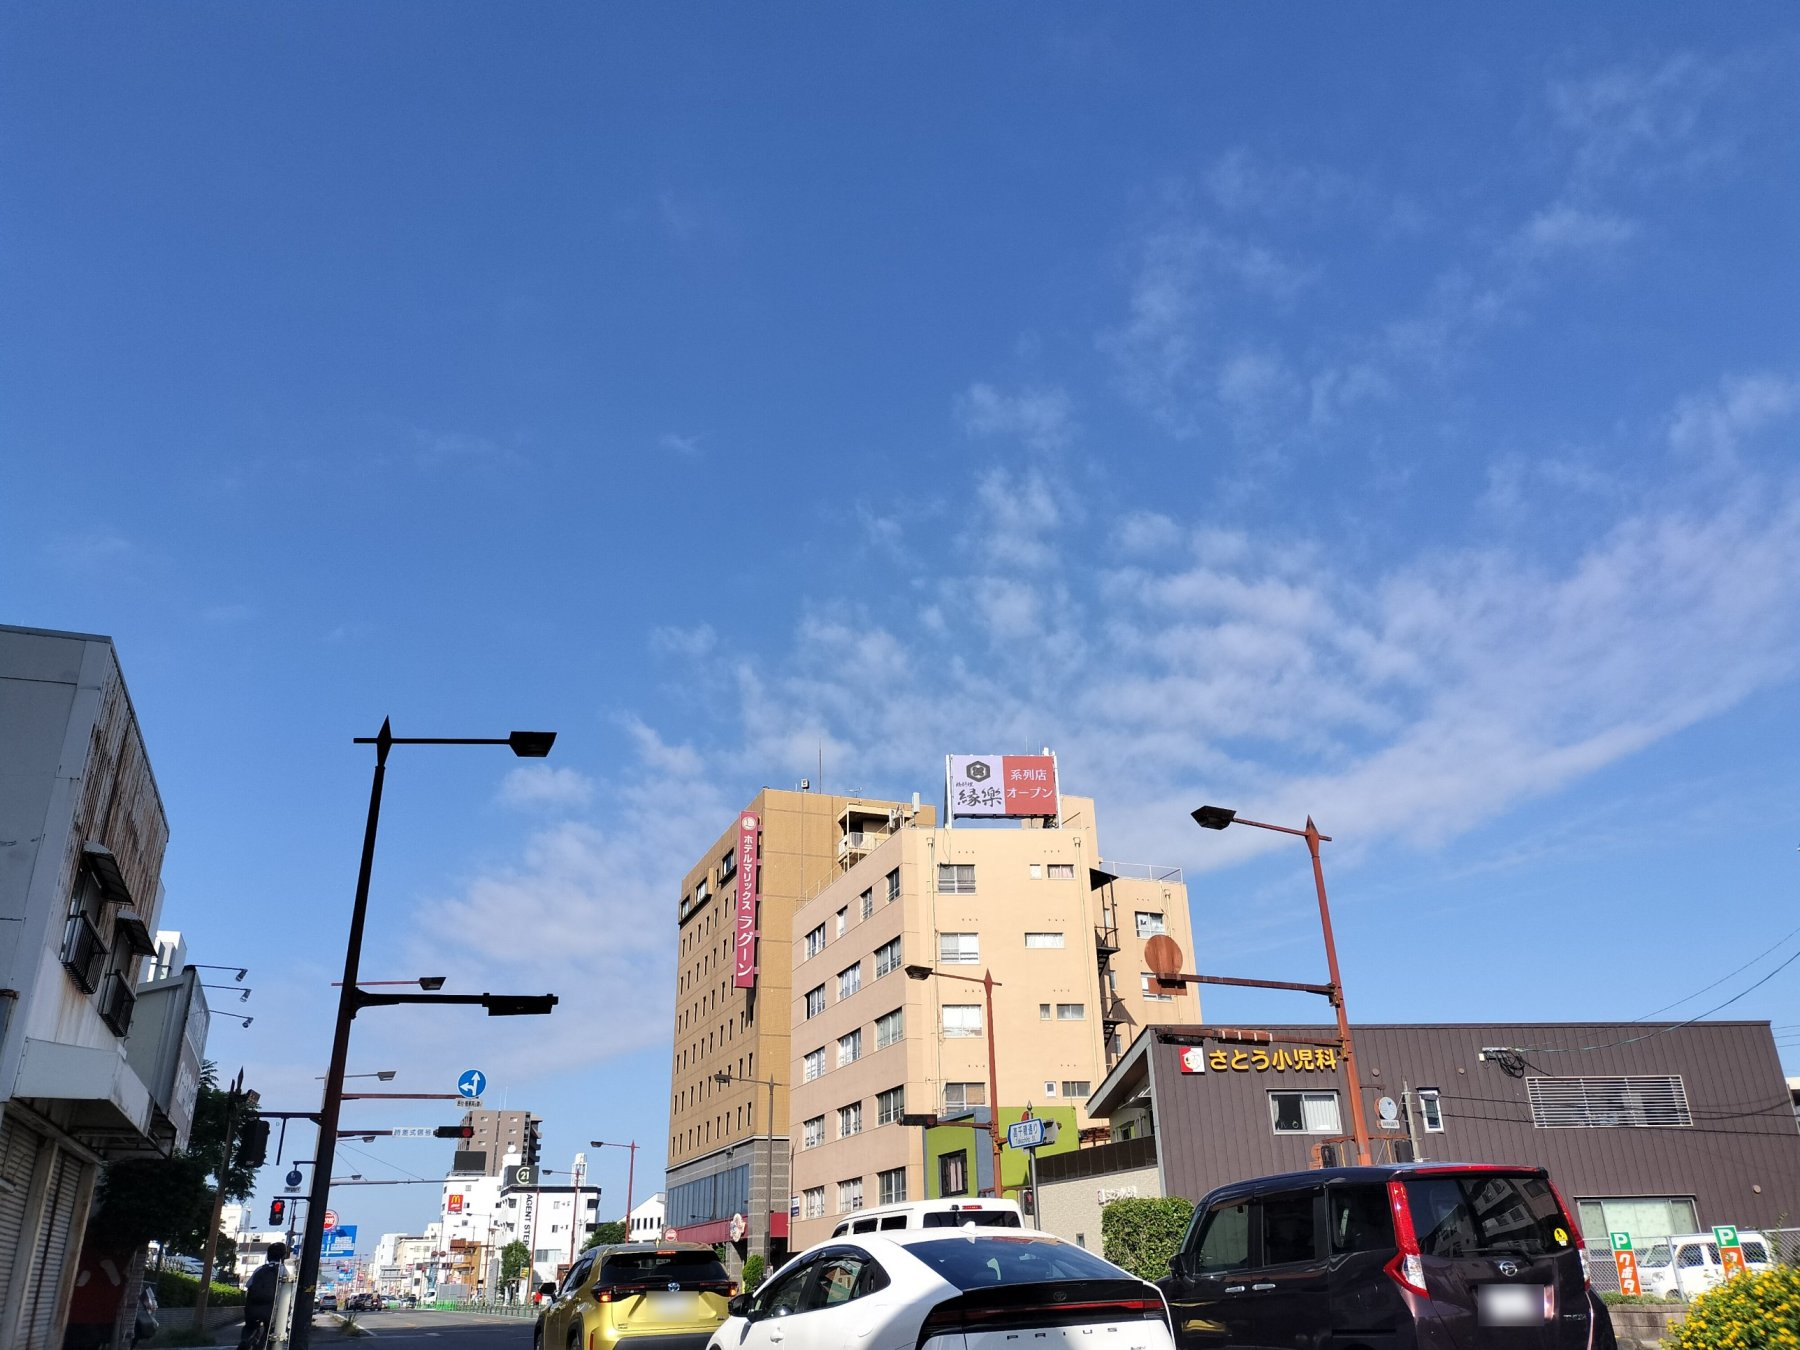
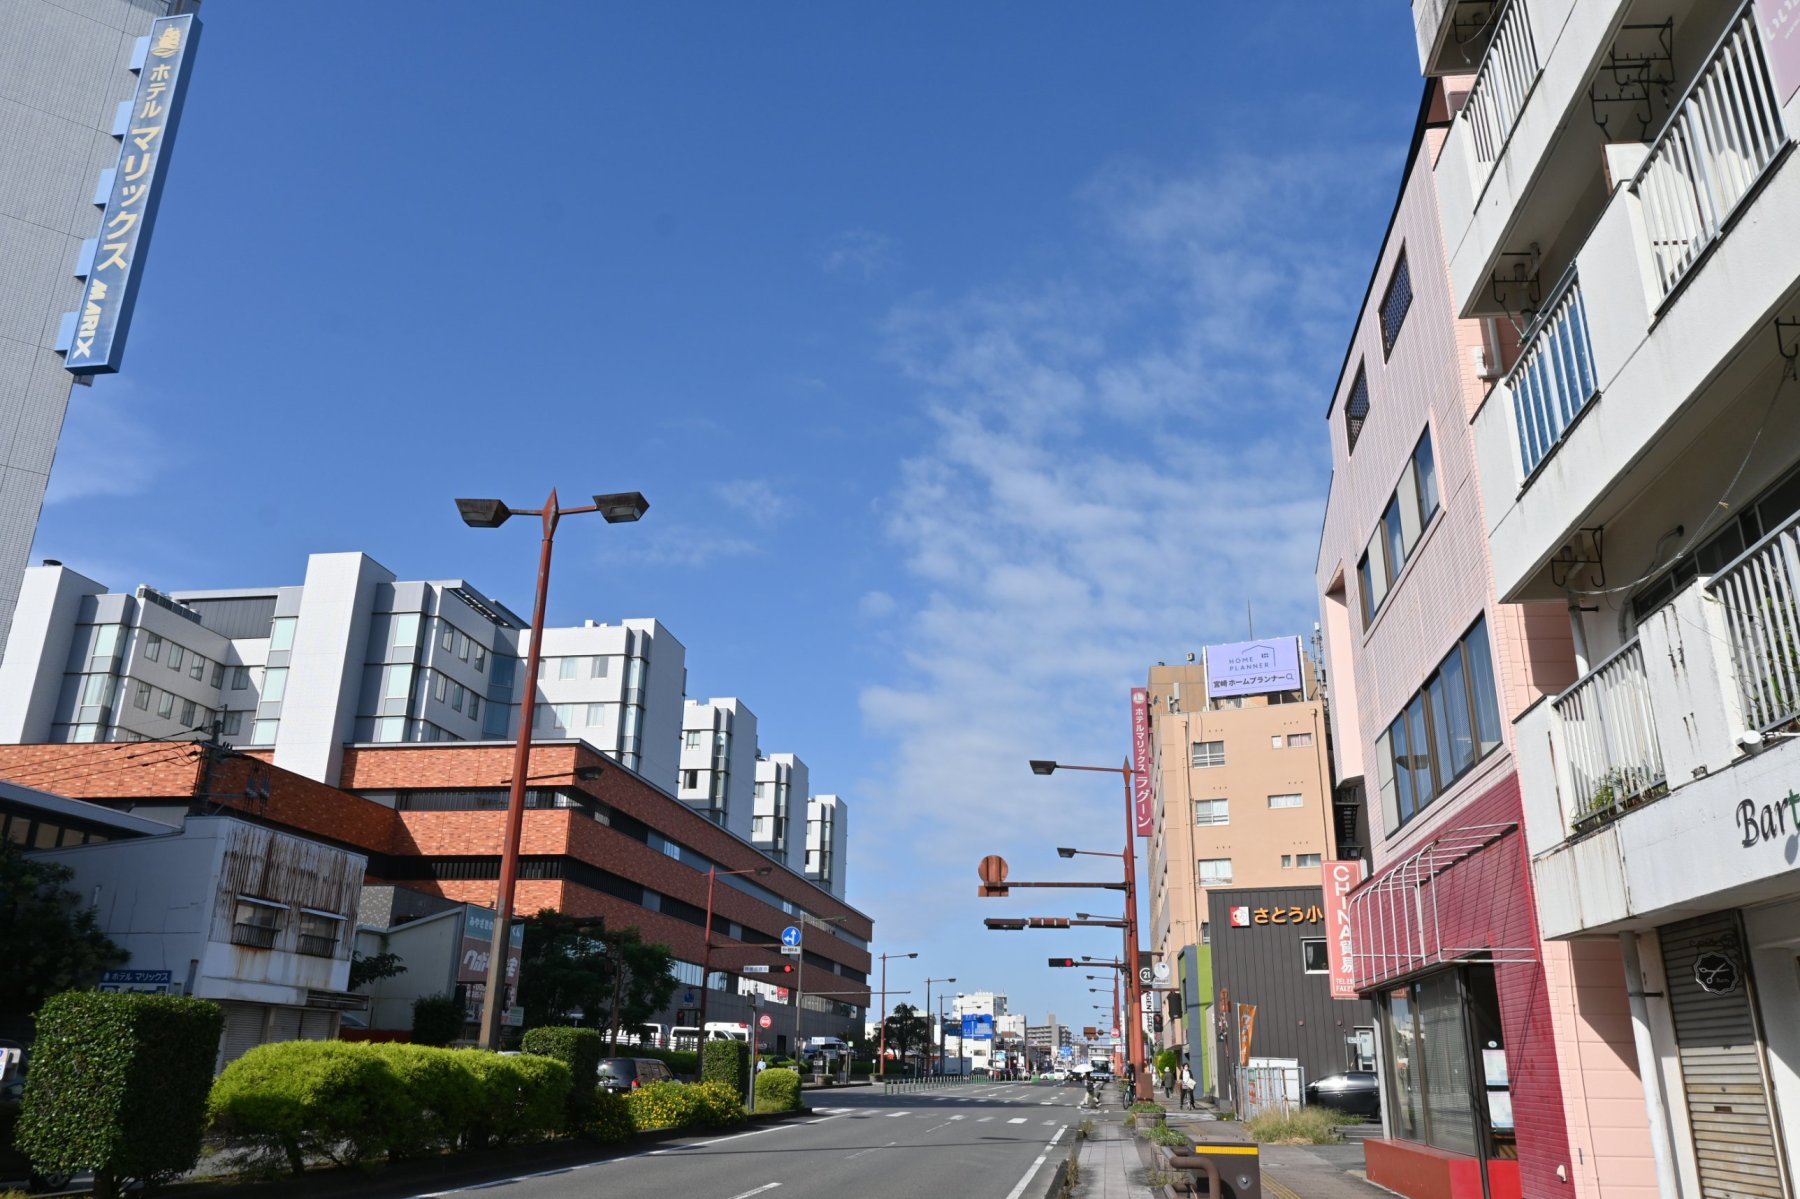
120m地点と立地写真を入れ替え
Claude-Session: https://claude.ai/code/session_01AELugyAuehSNsLXRBQanBb

diff --git a/index.html b/index.html
@@ -172,7 +172,7 @@ a:focus-visible,summary:focus-visible{outline:3px solid #FFD23F;outline-offset:3
 <p style="margin: 0; font-size: 15px">宮崎県立宮崎病院前、国道10号沿いに位置しています。<br>サイネージは、宮崎駅方面から西へ向かう車両から視認できる方向に設置。<br>周辺には医療施設をはじめ、事業所、店舗、住宅などがあり、通勤や業務、通院、買い物など、さまざまな目的で人や車が行き交います。</p>
 </div>
 <div style="flex: 1 1 440px; min-width: 0; display: flex; flex-direction: column; gap: 14px">
-<figure style="margin: 0"><div style="border-radius: 12px; overflow: hidden; aspect-ratio: 4 / 3; background: #DCE6F2"><img src="assets/location.jpg" alt="国道10号沿い、金丸ビル屋上の大型LEDビジョンと周辺の街並み" style="width: 100%; height: 100%; object-fit: cover; display: block"></div></figure>
+<figure style="margin: 0"><div style="border-radius: 12px; overflow: hidden; aspect-ratio: 4 / 3; background: #DCE6F2"><img src="assets/pointB.jpg" alt="国道10号沿い、金丸ビル屋上の大型LEDビジョンと周辺の街並み" style="width: 100%; height: 100%; object-fit: cover; display: block"></div></figure>
 <div style="background: #FFFFFF; border: 1px solid #D5DEEA; border-radius: 10px; padding: 14px 18px; display: flex; align-items: center; gap: 12px; flex-wrap: wrap">
 <span style="font-size: 14px; font-weight: 700">宮崎駅方面</span>
 <svg width="120" height="20" viewBox="0 0 120 20" fill="none"><path d="M4 10h110M106 3l9 7-9 7" stroke="#17407E" stroke-width="3" stroke-linecap="round" stroke-linejoin="round"/></svg>
@@ -329,7 +329,7 @@ a:focus-visible,summary:focus-visible{outline:3px solid #FFD23F;outline-offset:3
 </div>
 <div style="flex: 1 1 360px; min-width: 0; display: flex; flex-direction: column; gap: 10px">
 <div style="display: flex; align-items: center; gap: 10px"><span style="background: #FFD23F; font-weight: 900; font-size: 14px; padding: 2px 12px; border-radius: 4px">B地点</span><span style="font-size: 14px; font-weight: 700">約120m</span></div>
-<div style="aspect-ratio: 4 / 3; border-radius: 12px; overflow: hidden; background: #DCE6F2"><img src="assets/pointB.jpg" alt="B地点：約120m離れた国道10号から見た大型LEDビジョン" style="width: 100%; height: 100%; object-fit: cover; object-position: 60% 50%; display: block"></div>
+<div style="aspect-ratio: 4 / 3; border-radius: 12px; overflow: hidden; background: #DCE6F2"><img src="assets/location.jpg" alt="B地点：約120m離れた国道10号から見た大型LEDビジョン" style="width: 100%; height: 100%; object-fit: cover; object-position: 52% 62%; display: block"></div>
 </div>
 </div>
 <div style="display: flex; flex-wrap: wrap; gap: 32px; align-items: center">
